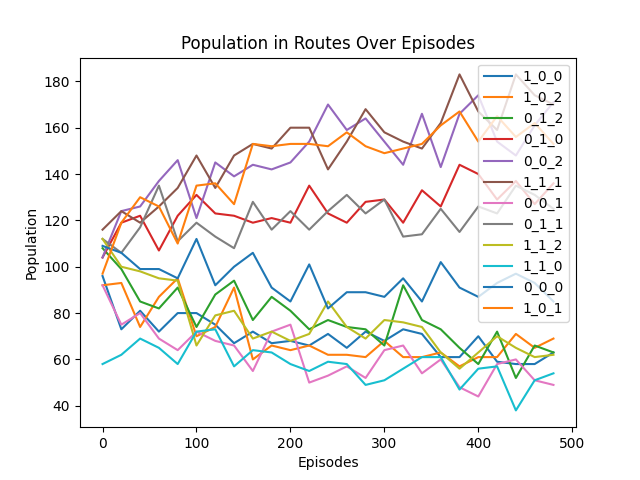
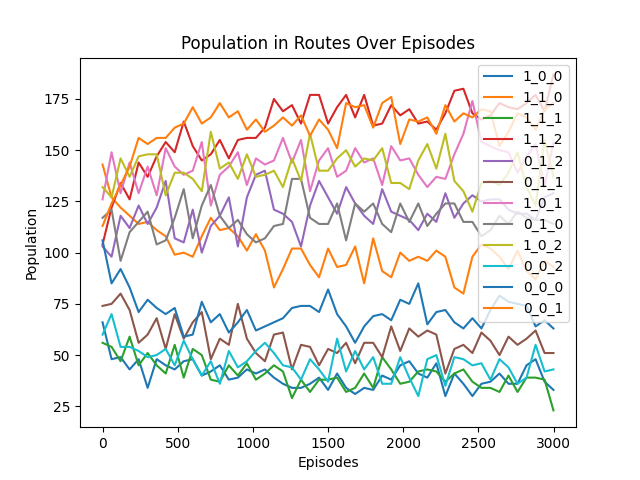
3000 eps epic training

diff --git a/recorder.py b/recorder.py
@@ -14,7 +14,6 @@ class Recorder:
         self.agents, self.humans, self.machines = list(), list(), list()
         self.update_agents(agents)
 
-        self.remember_every = params[kc.REMEMBER_EVERY]
         self.save, self.show = self.resolve_mode(params[kc.RECORDER_MODE])
         self.human_to_track, self.machine_to_track = self.get_tracking_agents(params[kc.TRACK_HUMAN], params[kc.TRACK_MACHINE])
 
@@ -63,11 +62,10 @@ class Recorder:
 #################### REMEMBER FUNCTIONS
     
     def remember_all(self, episode, joint_action, joint_reward, agents):
-        if not (episode % self.remember_every):
-            self.episodes.append(episode)
-            self.update_agents(agents)
-            self.remember_episode(episode, joint_action, joint_reward)
-            self.remember_agents_status(episode)
+        self.episodes.append(episode)
+        self.update_agents(agents)
+        self.remember_episode(episode, joint_action, joint_reward)
+        self.remember_agents_status(episode)
 
 
     def remember_episode(self, episode, joint_action, joint_reward):
@@ -319,7 +317,7 @@ class Recorder:
     def visualize_flows(self):
 
         ever_picked, all_selections = self.retrieve_flows()
-
+        
         for pick in ever_picked:
             plt.plot(self.episodes, [selections[pick] for selections in all_selections], label=pick)
 

diff --git a/services/trainer.py b/services/trainer.py
@@ -12,6 +12,7 @@ class Trainer:
     def __init__(self, params):
         self.num_episodes = params[kc.NUM_EPISODES]
         self.recorder_params = params[kc.RECORDER_PARAMETERS]
+        self.remember_every = params[kc.REMEMBER_EVERY]
 
 
     def train(self, env, agents):
@@ -37,11 +38,9 @@ class Trainer:
                     concurrent.futures.wait(futures)
 
                 state = next_state
-
-            self.recorder.remember_all(ep, joint_action_df, joint_reward_df, agents)
+            if (not (ep % self.remember_every)) or (ep == (self.num_episodes-1)): self.recorder.remember_all(ep, joint_action_df, joint_reward_df, agents)
             show_progress_bar("TRAINING", start_time, ep+1, self.num_episodes)
 
-        self.recorder.remember_all(ep, joint_action_df, joint_reward_df, agents)
         print("\n[COMPLETE] Training completed in: %s" % (time.strftime("%H hours, %M minutes, %S seconds", time.gmtime(time.time() - start_time))))
         
         self.recorder.rewind()

diff --git a/main.py b/main.py
@@ -16,7 +16,7 @@ def main():
     env = TrafficEnvironment(params[kc.ENVIRONMENT_PARAMETERS], params[kc.SIMULATION_PARAMETERS]) 
     agents = create_agent_objects(params[kc.AGENTS_GENERATION_PARAMETERS], env.calculate_free_flow_times())
 
-    sumo_ctrl=SumoController(params)
+    sumo_ctrl = SumoController(params[kc.SIMULATION_PARAMETERS])
     sumo_ctrl.sumo_start()
 
     trainer = Trainer(params[kc.TRAINING_PARAMETERS])

diff --git a/sumo_controller.py b/sumo_controller.py
@@ -7,8 +7,8 @@ from keychain import Keychain as kc
 class SumoController:
 
     def __init__(self, params):
-        self.sumo_type = params[kc.SIMULATION_PARAMETERS][kc.SUMO_TYPE]
-        self.config = params[kc.SIMULATION_PARAMETERS][kc.SUMO_CONFIG_PATH]
+        self.sumo_type = params[kc.SUMO_TYPE]
+        self.config = params[kc.SUMO_CONFIG_PATH]
     
     def sumo_start(self):
         sumo_binary = self.sumo_type
